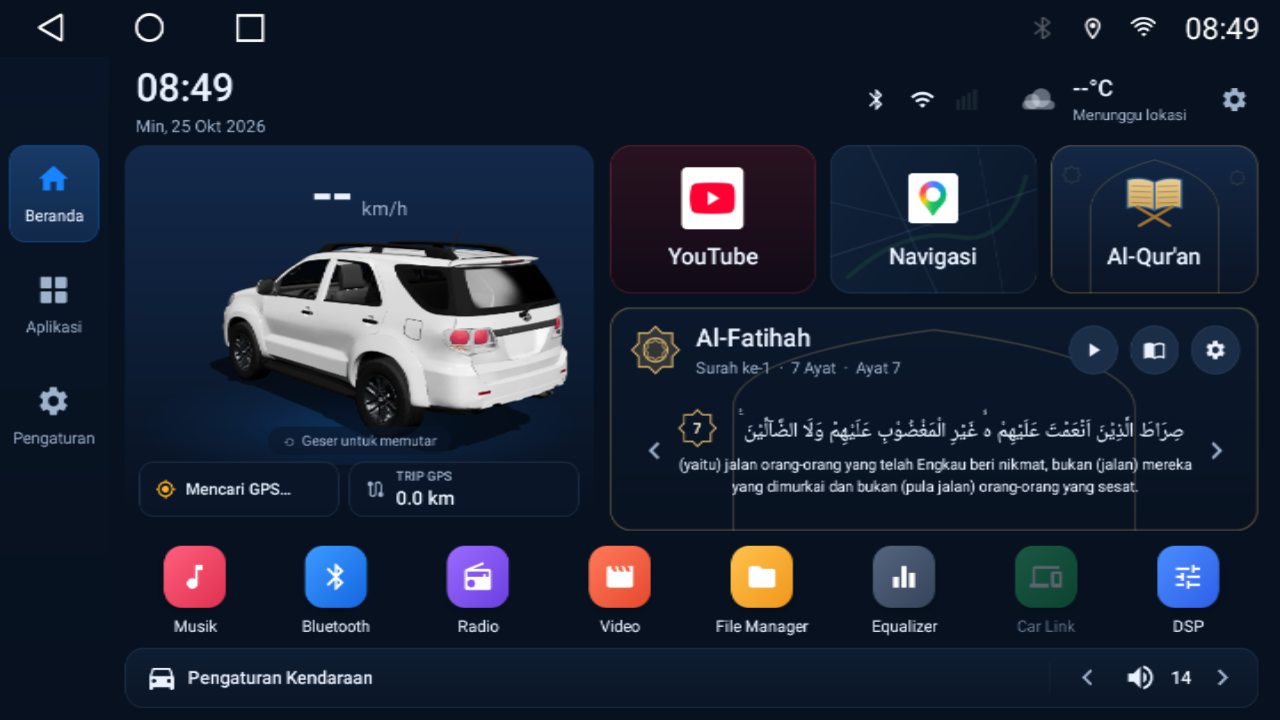
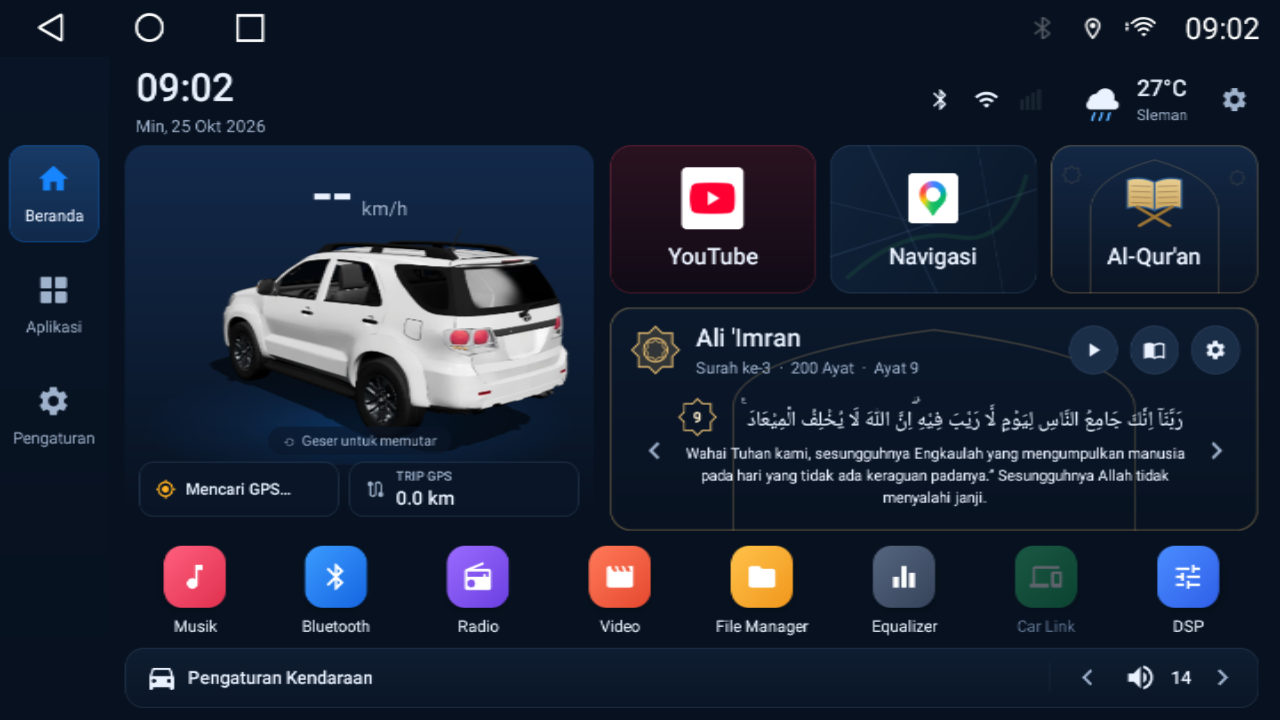
Perbarui screenshot dan tampilkan di README
Ganti screenshot Beranda dengan versi terbaru (mobil 360°, cuaca aktif),
tambah tampilan mobil diputar ke samping, dan hapus screenshot desain lama
(foto mobil lama, kontrol iklim, KlikDash).

diff --git a/README.md b/README.md
@@ -9,6 +9,20 @@ bergantian kapan saja.
 Diuji di headunit Unisoc UMS512 (TS10/UIS7862), Android 10, 1280×720. Layout juga dicek di 1024×600 dan
 1920×1080 (240 dpi).
 
+## Screenshot
+
+Diambil langsung dari headunit (1280×720).
+
+![Beranda](docs/screenshots/beranda-1280x720.png)
+
+| Fortuner 360° diputar ke samping | Diputar ke depan |
+|---|---|
+| ![Mobil 360 samping](docs/screenshots/mobil-360-samping.png) | ![Mobil 360 depan](docs/screenshots/mobil-360-depan.png) |
+
+| Halaman Al-Qur'an | Doa naik kendaraan |
+|---|---|
+| ![Al-Qur'an](docs/screenshots/alquran.png) | ![Doa naik kendaraan](docs/screenshots/doa-naik-kendaraan.png) |
+
 ## Fitur
 
 | Bagian | Isi | Sumber data |
